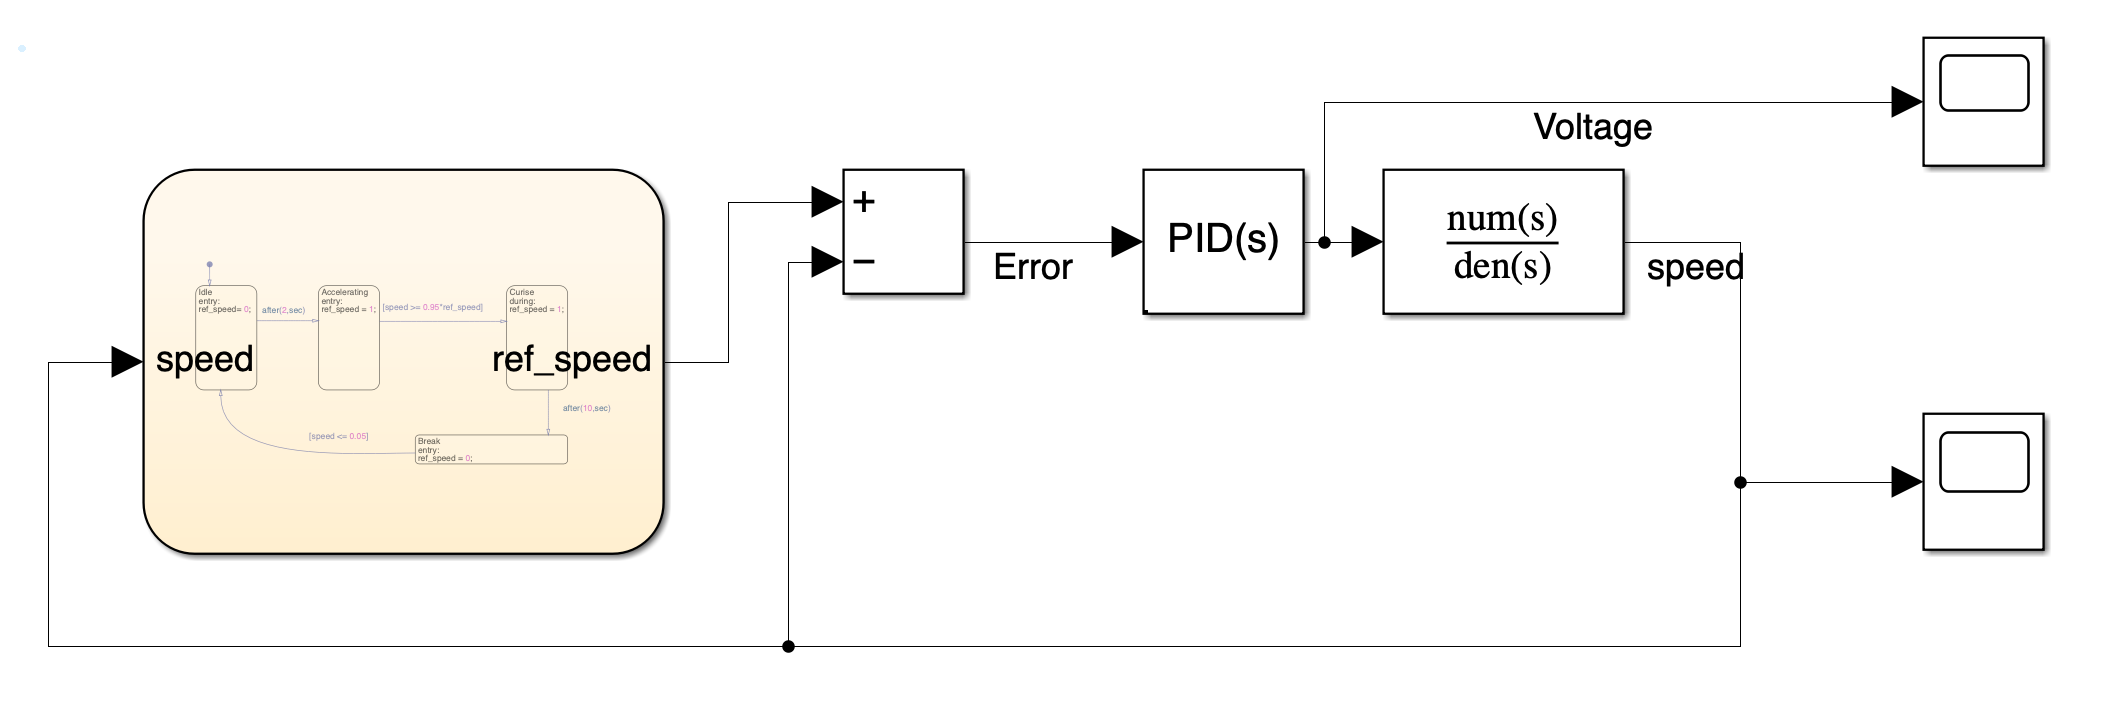
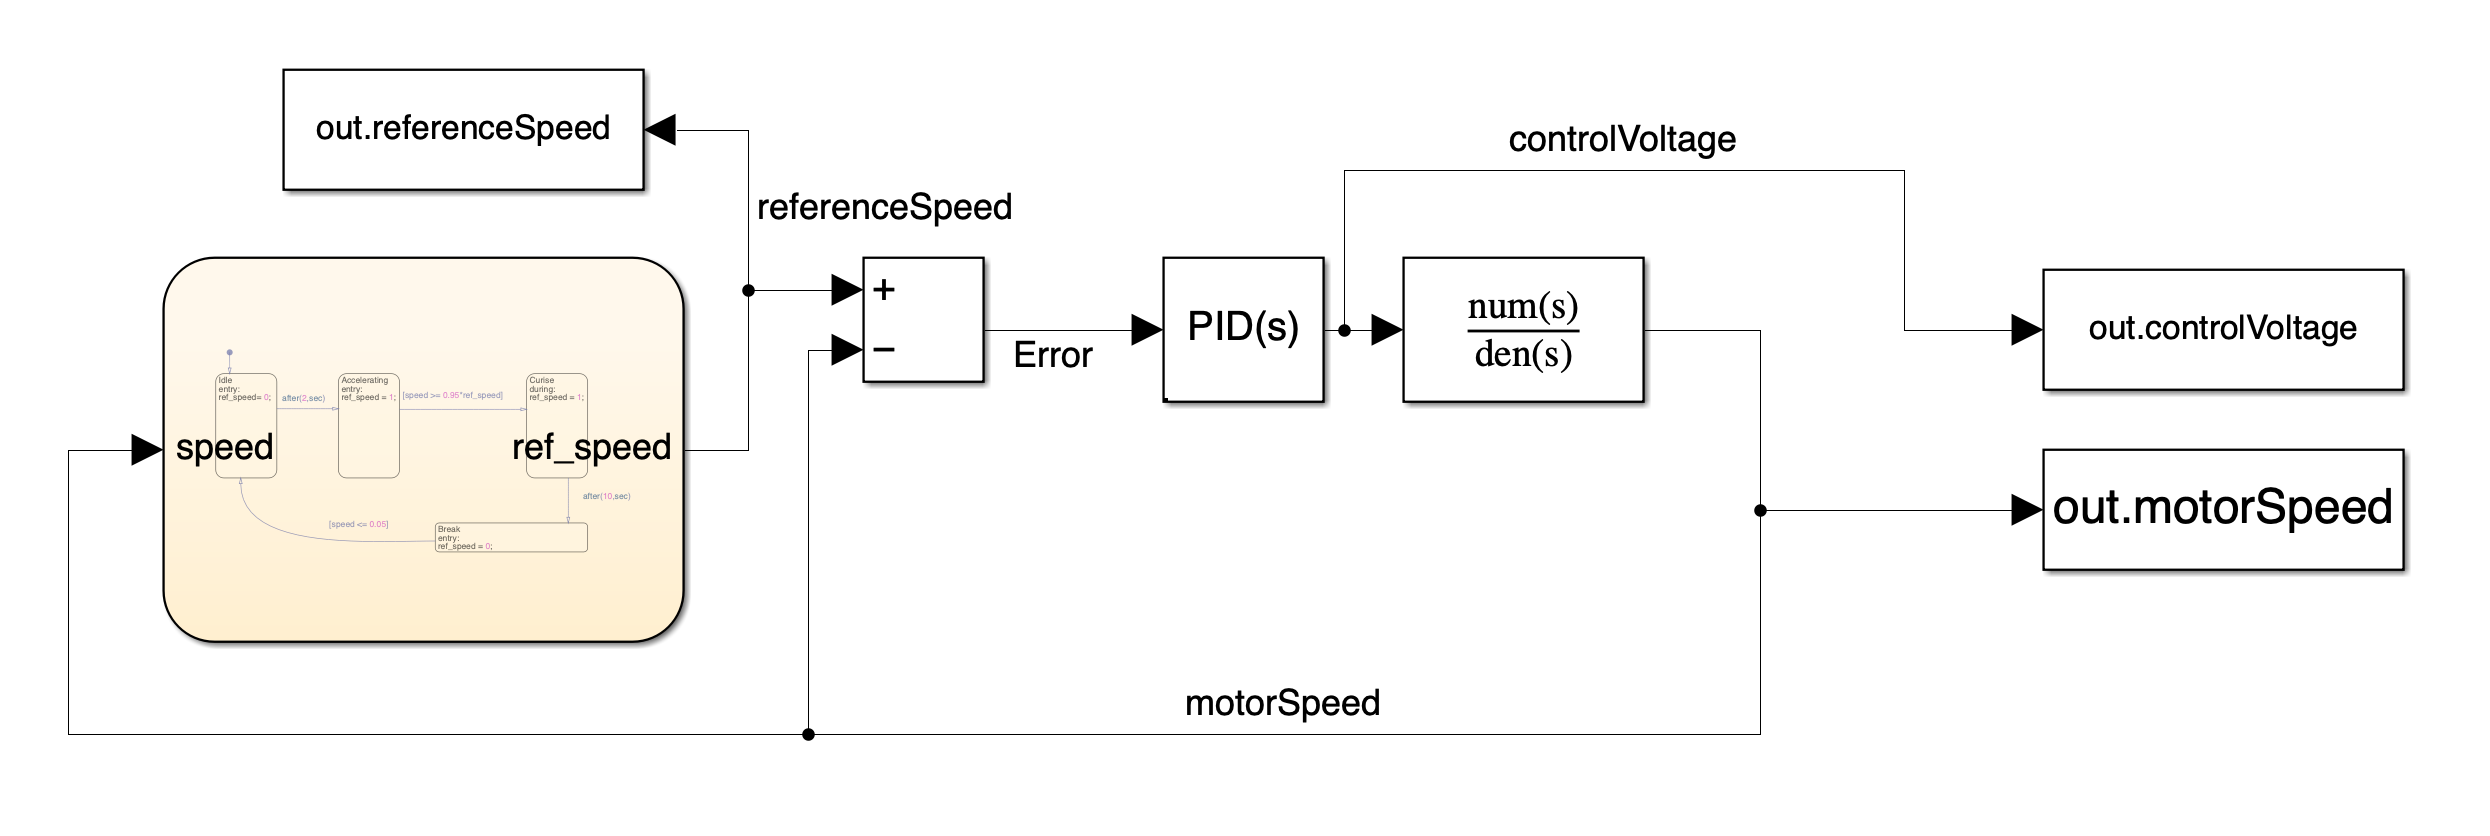
matlab comparison

diff --git a/DC_motor_control.m b/DC_motor_control.m
@@ -1,6 +1,66 @@
-J = 0.01;
-B = 0.1;
+%% DC Motor Control Simulation
+clear;
+clc;
+close all;
+
+%% Model
+model = 'DC_motor_control_simulink';
+
+%% Load model
+load_system(model);
+
+%% Motor Parameters
+J  = 0.01;
+B  = 0.1;
 Kt = 0.01;
 Ke = 0.01;
-R = 1;
-L = 0.5;
+R  = 1;
+L  = 0.5;
+
+%% PID Gains
+Kp = 5;
+Ki = 3;
+Kd = 0;
+
+%% Simulation Time
+StopTime = 40;
+set_param(model,'StopTime',num2str(StopTime));
+
+%% Run simulation
+out = sim(model);
+
+%% Extract data
+
+tSpeed = out.motorSpeed.time;
+speed = out.motorSpeed.signals.values;
+
+tRef = out.referenceSpeed.time;
+ref = out.referenceSpeed.signals.values;
+
+tVoltage = out.controlVoltage.time;
+voltage = out.controlVoltage.signals.values;
+
+%% Plot Reference and Motor Speed
+
+figure;
+
+plot(tRef,ref,'y--','LineWidth',2);
+hold on;
+plot(tSpeed,speed,'b','LineWidth',2);
+
+grid on;
+xlabel('Time (s)');
+ylabel('Speed (rad/s)');
+title('Motor Speed Tracking');
+legend('Reference','Motor Speed','Location','best');
+
+%% Plot Control Voltage
+
+figure;
+
+plot(tVoltage,voltage,'r','LineWidth',2);
+
+grid on;
+xlabel('Time (s)');
+ylabel('Voltage (V)');
+title('PID Controller Output');
